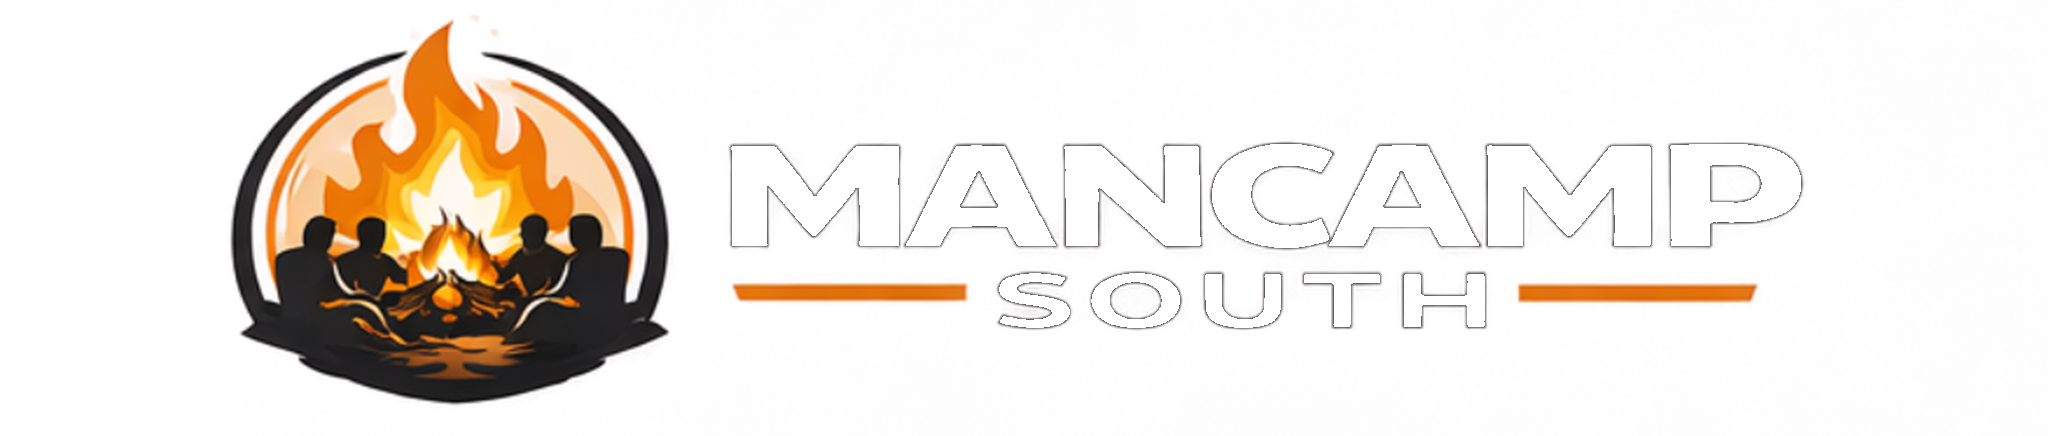
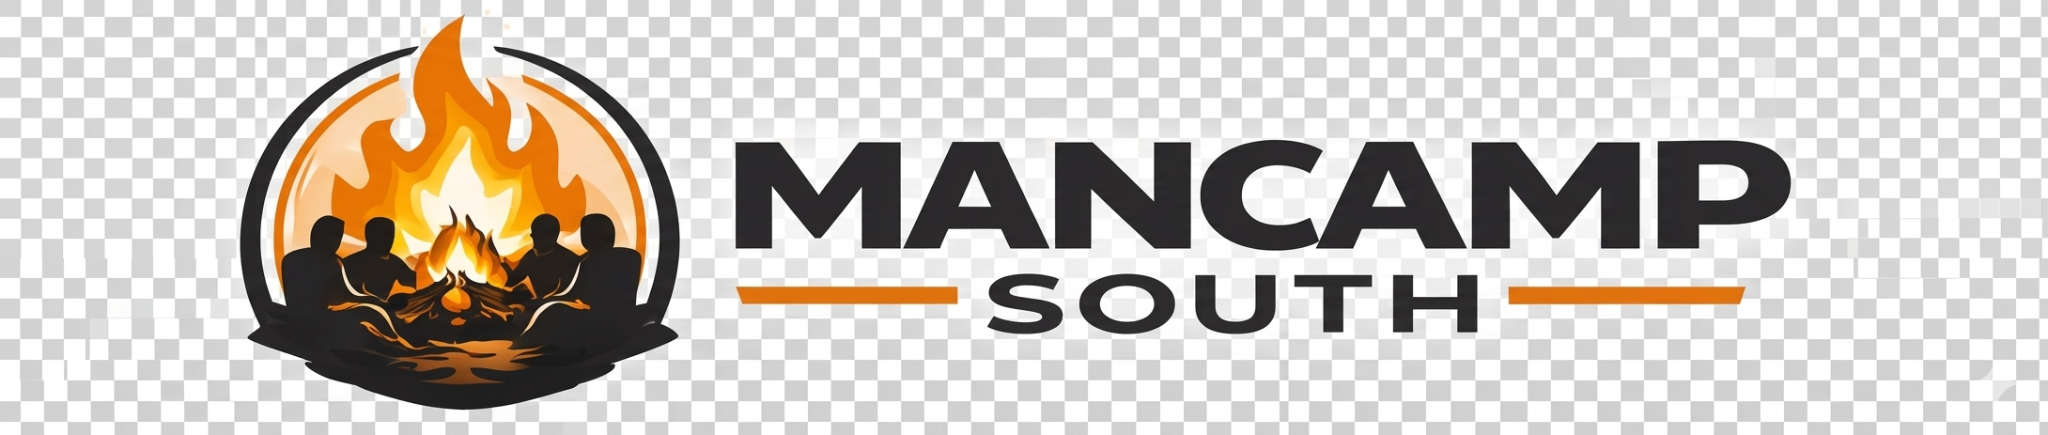
Add files via upload

diff --git a/about.html b/about.html
@@ -37,6 +37,21 @@
       <p class="lead" data-mission></p>
     </div>
   </section>
+    <section class="section-tight registration-section">
+      <div class="container">
+        <div class="card glass-card registration-card registration-card-inline">
+          <div>
+            <div class="eyebrow">Registration</div>
+            <h3>Secure your spot for Man Camp South 2027.</h3>
+            <p class="lead small-card-copy">Registration is handled through the official event portal. Use the button below to view ticket options and complete signup.</p>
+          </div>
+          <div class="registration-actions">
+            <a class="btn btn-primary btn-register-lg" href="https://events.franklynsolutions.com/control/event/mancampsouth/mcs-2027" target="_blank" rel="noopener">Open registration</a>
+            <div class="small">March 5–7, 2027 • Amite, Louisiana</div>
+          </div>
+        </div>
+      </div>
+    </section>
 
   <main>
     <section class="section">

diff --git a/details.html b/details.html
@@ -40,6 +40,21 @@
       </div>
     </div>
   </section>
+    <section class="section-tight registration-section">
+      <div class="container">
+        <div class="card glass-card registration-card registration-card-inline">
+          <div>
+            <div class="eyebrow">Registration</div>
+            <h3>Secure your spot for Man Camp South 2027.</h3>
+            <p class="lead small-card-copy">Registration is handled through the official event portal. Use the button below to view ticket options and complete signup.</p>
+          </div>
+          <div class="registration-actions">
+            <a class="btn btn-primary btn-register-lg" href="https://events.franklynsolutions.com/control/event/mancampsouth/mcs-2027" target="_blank" rel="noopener">Open registration</a>
+            <div class="small">March 5–7, 2027 • Amite, Louisiana</div>
+          </div>
+        </div>
+      </div>
+    </section>
 
   <main>
     <section class="section-tight">

diff --git a/assets/css/styles.css b/assets/css/styles.css
@@ -302,3 +302,11 @@ p{margin:0 0 1rem;color:var(--muted)}
 .registration-actions{display:grid;gap:.8rem;margin-top:.2rem}
 .btn-register-lg{min-height:56px;font-size:1rem;padding:0 1.4rem;box-shadow:0 14px 30px rgba(242,139,17,.22)}
 .btn-register-lg:after{content:"→";margin-left:.65rem;font-size:1.05rem}
+
+
+/* v9 refinements */
+.brand img.site-logo,.footer-logo{filter:drop-shadow(0 0 10px rgba(255,255,255,.16)) drop-shadow(0 4px 20px rgba(0,0,0,.35));}
+.registration-card-inline{min-height:auto;grid-template-columns:minmax(0,1fr) auto;align-items:center;padding:1.4rem 1.5rem;}
+.registration-card-inline .small-card-copy{max-width:50ch;}
+.registration-section{padding-top:28px;padding-bottom:10px;}
+@media (max-width:820px){.registration-card-inline{grid-template-columns:1fr;}}
